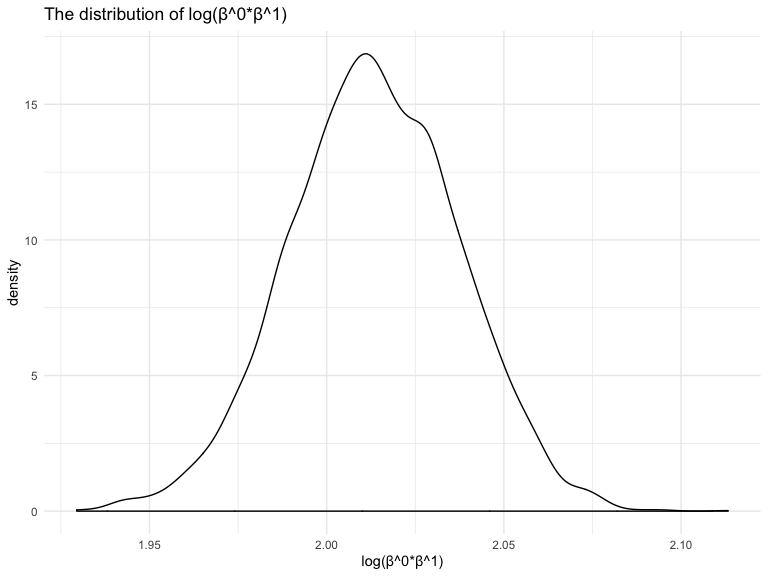
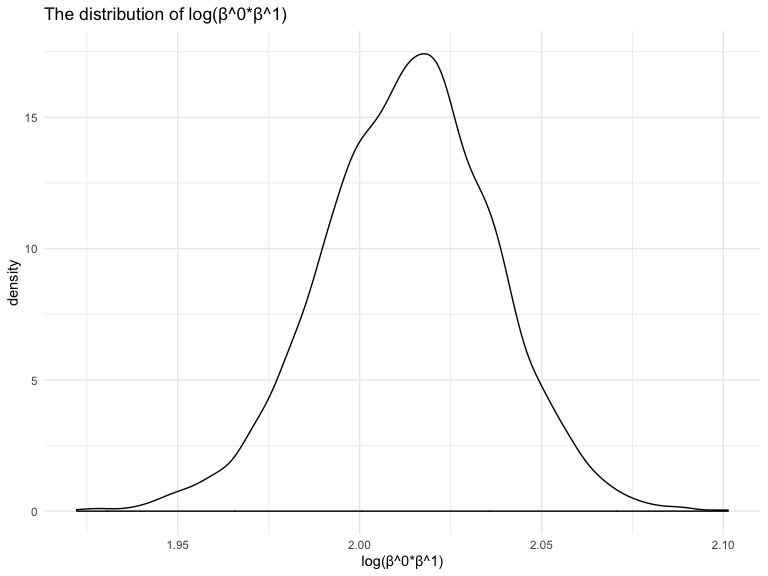
edits to problem 2

diff --git a/p8105_hw6_yy2912.md b/p8105_hw6_yy2912.md
@@ -120,17 +120,6 @@ model2 = lm(bwt ~ bhead + blength + babysex + bhead * blength + bhead * babysex 
 library(mgcv)
 ```
 
-    ## Loading required package: nlme
-
-    ## 
-    ## Attaching package: 'nlme'
-
-    ## The following object is masked from 'package:dplyr':
-    ## 
-    ##     collapse
-
-    ## This is mgcv 1.8-28. For overview type 'help("mgcv-package")'.
-
 ``` r
 cv_df= crossv_mc (birthweight_clean, 100)%>%
 
@@ -198,14 +187,14 @@ bootstrap_samples =
 ``` r
 bootstrap_samples_new=
 bootstrap_samples %>%
-  group_by(r.squared, adj.r.squared) %>% 
- summarize(log_beta = sum(log(estimate)))
+  group_by(.id) %>% 
+ summarize(log_beta = sum(log(estimate[[1]]*estimate[[2]])))
 ```
 
 the distribution of r squared
 
 ``` r
-bootstrap_samples_new %>%
+bootstrap_samples %>%
   ggplot(aes(x = r.squared)) +
   geom_density() +
 labs(title = "The distribution of R Squared",
@@ -219,10 +208,10 @@ quantile(pull(bootstrap_samples, r.squared),c(0.025,0.975))
 ```
 
     ##      2.5%     97.5% 
-    ## 0.8945954 0.9275496
+    ## 0.8935952 0.9271307
 
 Based on the plot, r squared follows a normal distribution with a slight
-left skewedness. The 95% CI of r squared lies between 0.8936 and 0.9274.
+left skewedness. The 95% CI of r squared lies between 0.89 and 0.93.
 
 the distribution of log(β^0\*β^1)
 
@@ -241,7 +230,7 @@ quantile(pull(bootstrap_samples_new, log_beta),c(0.025,0.975))
 ```
 
     ##     2.5%    97.5% 
-    ## 1.965763 2.058838
+    ## 1.965906 2.058429
 
 From the plot, log(β<sup>0*β^1) roughly follows a normal distribution.
-The 95% CI of log(β^0*β</sup>1) lies between 1.9647 and 2.0579.
+The 95% CI of log(β^0*β</sup>1) lies between 1.97 and 2.06.
